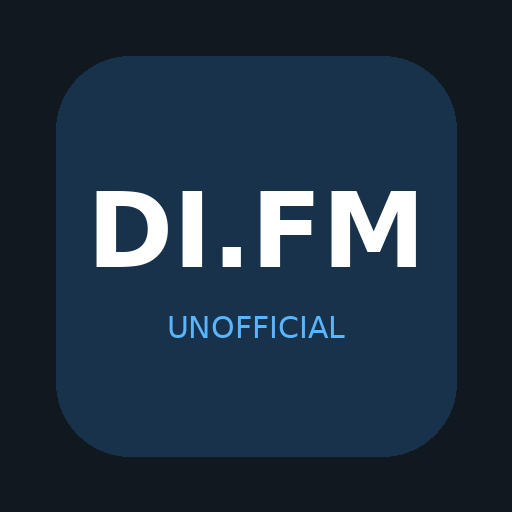
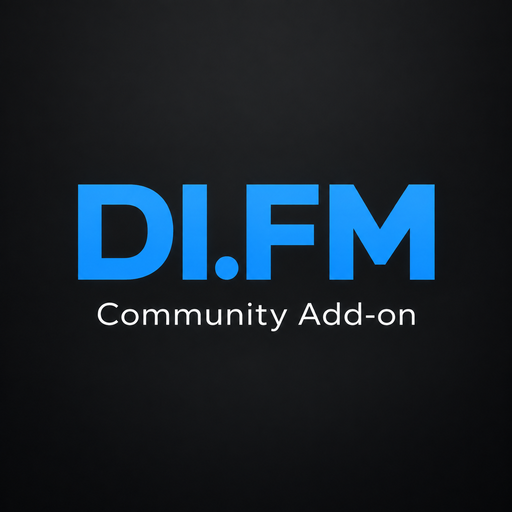
[plugin.audio.difm] 0.6.3

diff --git a/plugin.audio.difm/PUBLICATION_CHECKLIST.md b/plugin.audio.difm/PUBLICATION_CHECKLIST.md
@@ -22,12 +22,11 @@
 
 ## Before the V1 public submission
 
-- [ ] choose the public maintainer/provider name for `addon.xml`
-- [ ] create the public source repository and add its URL to `<source>`
-- [ ] decide whether to expose a public maintainer email
-- [ ] confirm branding/logo/API expectations with DI.FM
-- [ ] ask DI.FM whether higher-resolution TV/desktop channel artwork exists
-- [ ] add final screenshots to addon metadata if desired
+- [x] choose the public maintainer/provider name for `addon.xml`
+- [x] create the public source repository and add its URL to `<source>`
+- [x] decide on public maintainer contact: GitHub Issues only
+- [x] confirm branding/logo/API expectations with DI.FM
+- [x] replace official DI.FM logo/fanart with original community add-on artwork
 - [ ] run the official Kodi addon-checker against the final source tree
 - [ ] perform one final clean-install test from the release ZIP
 - [ ] submit to the appropriate official Kodi repository branch
@@ -39,3 +38,4 @@
 - [ ] optional interactive controls, only if justified by actual user demand
 - [ ] sleep timer
 - [ ] graceful recovery testing after temporary network loss
+- [ ] simplify Kodi entry points by moving most logic from `default.py` and `service.py` into `resources/lib/`
